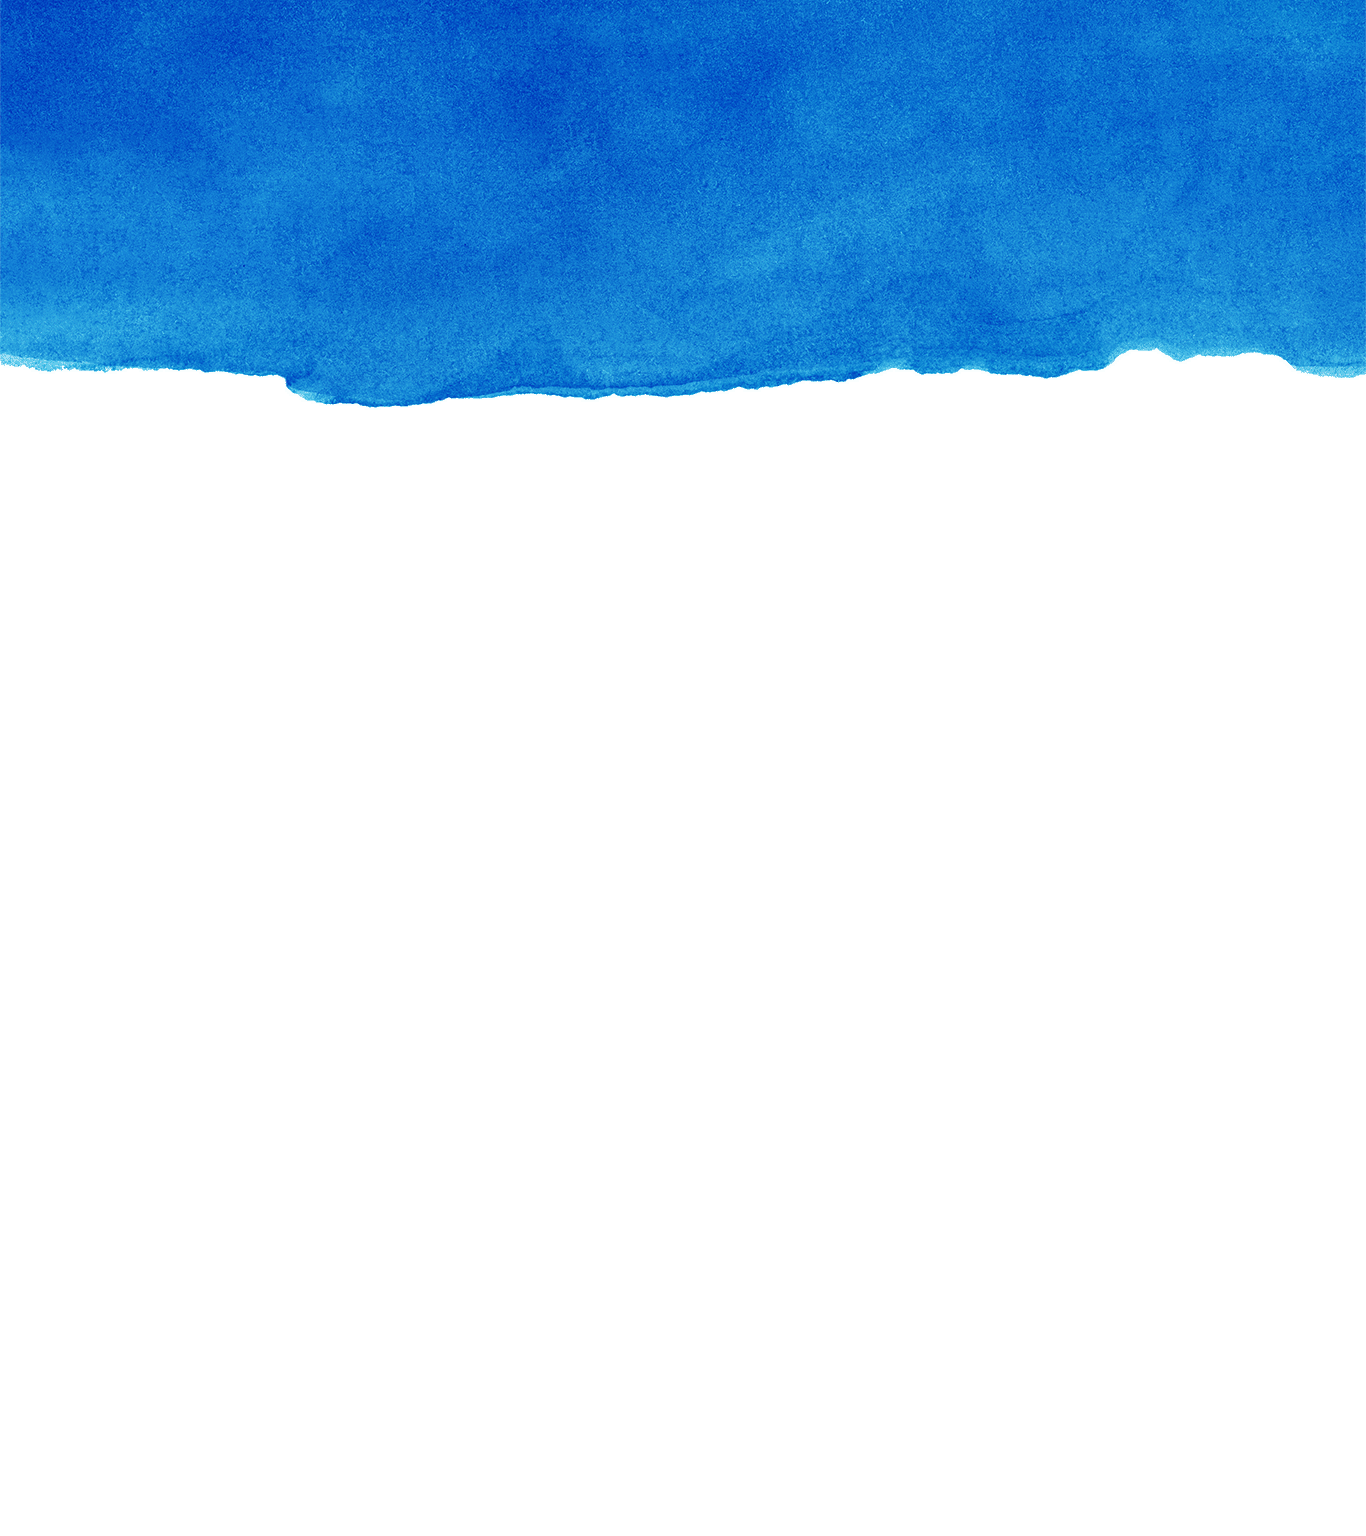
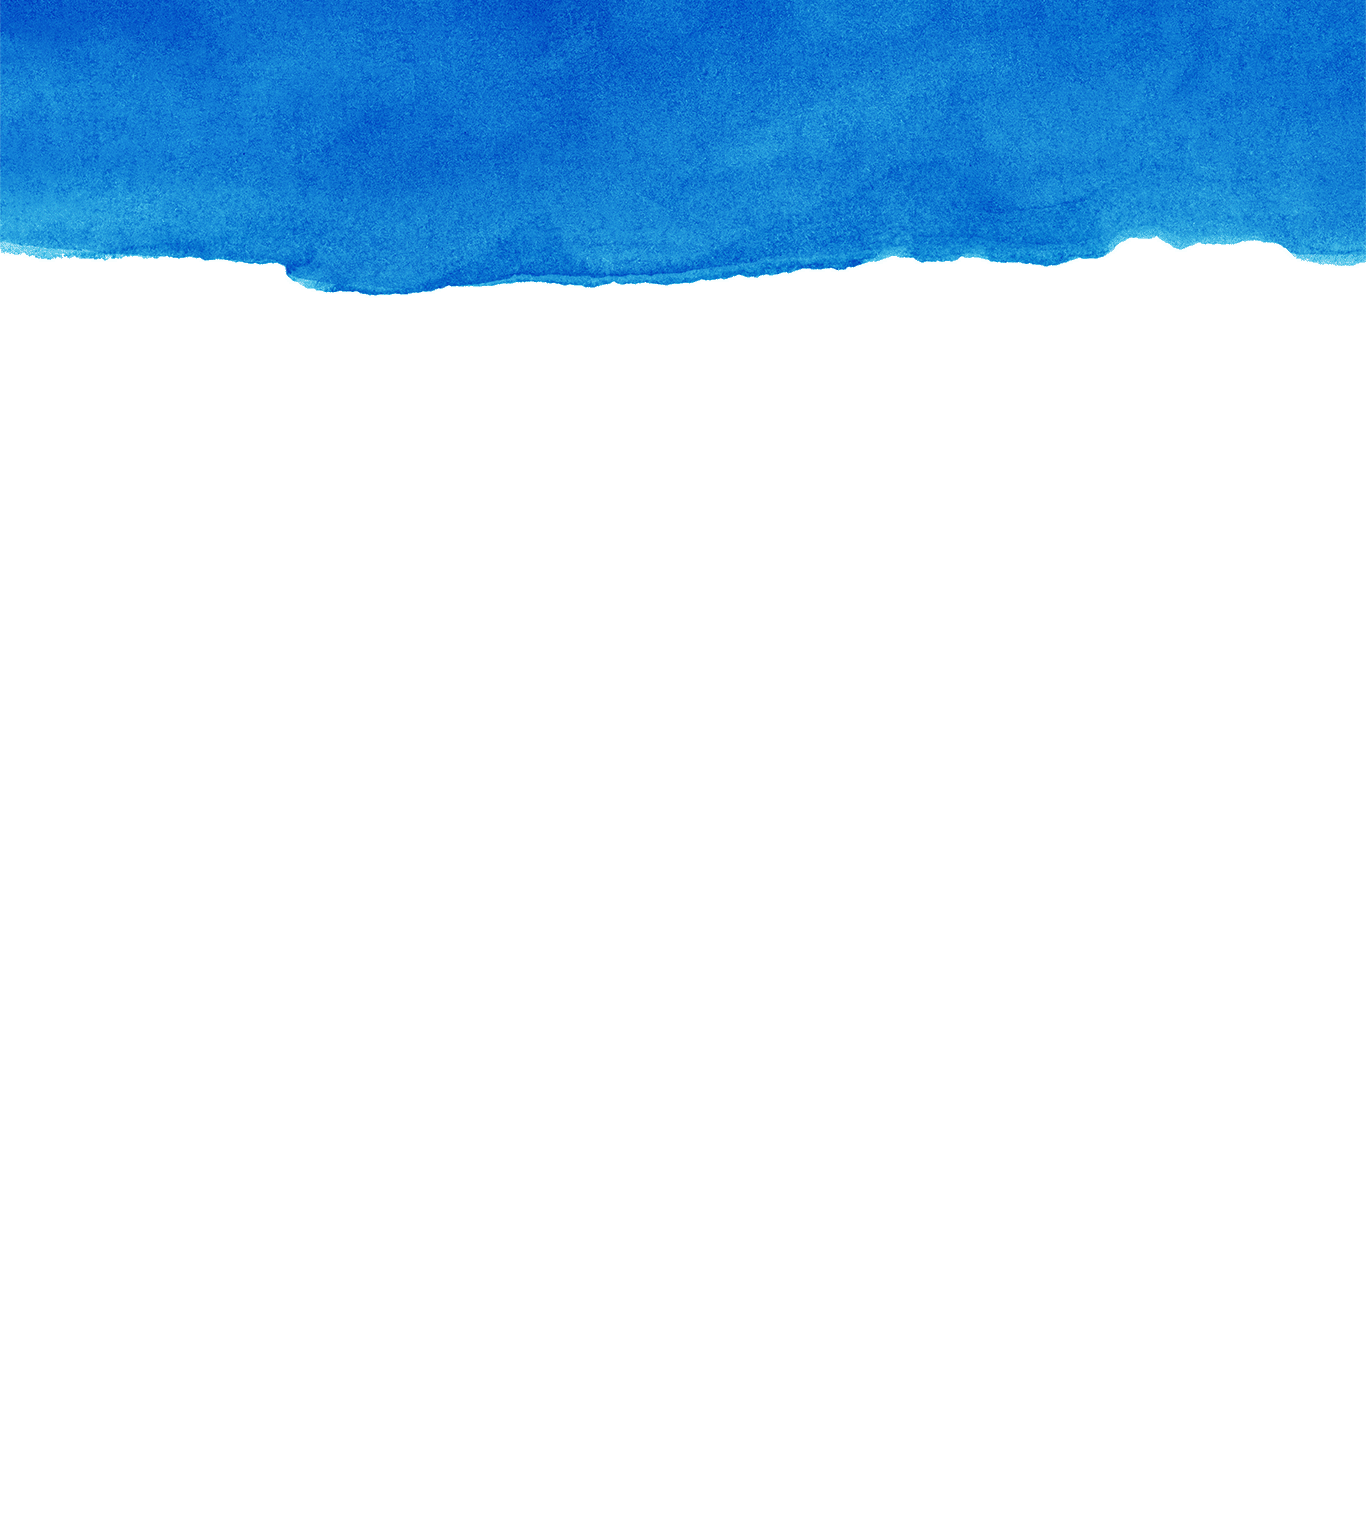
Styled text, formatted background images

Changed region(s): [[0.0, 0.0, 1.0, 0.2812]]

diff --git a/index.html b/index.html
@@ -14,7 +14,7 @@
     <script type="text/javascript" src="scripts/main-js.js"></script>
 	<meta charset="utf-8" />
 </head>
-<body>
+<body class="watercolour">
 	<a name="top"></a>
 
     <!-- #region Navbar -->
@@ -80,7 +80,7 @@
         </div>
         <div class="column">
             <div class="content">
-                <img src="images/masquerade_thumb.png" alt="Masquerade" class="thumbnail-main">
+                <a href="masquerade.html"><img src="images/masquerade_thumb.png" alt="Masquerade" class="thumbnail-main"></a>
             </div>
         </div>
         <div class="column">
@@ -111,55 +111,55 @@
 	        <div class="col-sm-4">
 		        <div class="row">
 			        <div class="col-sm-3"> <img class="icon-large" src="images/icons/illustration-icon.svg" alt="Illustration Icon"></div>
-			        <div class="col-sm-9 bold centre-services"><h3>ILLUSTRATION</h3></div>
+			        <div class="col-sm-9 bold centre-services"><h5>ILLUSTRATION</h5></div>
 		        </div>
 	        </div>
 	        <div class="col-sm-4">
 		        <div class="row">
 			        <div class="col-sm-3"> <img class="icon-large" src="images/icons/logo-design-icon.svg" alt="Logo Design Icon"></div>
-			        <div class="col-sm-9 bold centre-services"><h3>LOGO DESIGN</h3></div>
+			        <div class="col-sm-9 bold centre-services"><h5>LOGO DESIGN</h5></div>
 		        </div>
 	        </div>
 	        <div class="col-sm-4">
 		        <div class="row">
 			        <div class="col-sm-3"> <img class="icon-large" src="images/icons/brand-development-icon.svg" alt="Brand Development Icon"></div>
-			        <div class="col-sm-9 bold centre-services"><h3>BRAND DEVELOPMENT</h3></div>
+			        <div class="col-sm-9 bold centre-services"><h5>BRAND DEVELOPMENT</h5></div>
 		        </div>
 	        </div>
 			 <div class="col-sm-4">
 		        <div class="row">
 			        <div class="col-sm-3"> <img class="icon-large" src="images/icons/print-collateral-icon.svg" alt="Print Collateral Icon"></div>
-			        <div class="col-sm-9 bold centre-services"><h3>PRINT COLLATERAL</h3></div>
+			        <div class="col-sm-9 bold centre-services"><h5>PRINT COLLATERAL</h5></div>
 		        </div>
 	        </div>
 			 <div class="col-sm-4">
 		        <div class="row">
 			        <div class="col-sm-3"> <img class="icon-large" src="images/icons/infographic-design-icon.svg" alt="Infographic Design Icon"></div>
-			        <div class="col-sm-9 bold centre-services"><h3>INFOGRAPHIC DESIGN</h3></div>
+			        <div class="col-sm-9 bold centre-services"><h5>INFOGRAPHIC DESIGN</h5></div>
 		        </div>
 	        </div>
 			 <div class="col-sm-4">
 		        <div class="row">
 			        <div class="col-sm-3"> <img class="icon-large" src="images/icons/digital-media-icon.svg" alt="Digital Media Icon"></div>
-			        <div class="col-sm-9 bold centre-services"><h3>DIGITAL MEDIA</h3></div>
+			        <div class="col-sm-9 bold centre-services"><h5>DIGITAL MEDIA</h5></div>
 		        </div>
 	        </div>
 			 <div class="col-sm-4">
 		        <div class="row">
 			        <div class="col-sm-3"> <img class="icon-large" src="images/icons/character-design-icon.svg" alt="Character Design Icon"></div>
-			        <div class="col-sm-9 bold centre-services"><h3>CHARACTER DESIGN</h3></div>
+			        <div class="col-sm-9 bold centre-services"><h5>CHARACTER DESIGN</h5></div>
 		        </div>
 	        </div>
 			 <div class="col-sm-4">
 		        <div class="row">
 			        <div class="col-sm-3"> <img class="icon-large" src="images/icons/hand-lettering-icon.svg" alt="Hand Lettering Icon"></div>
-			        <div class="col-sm-9 bold centre-services"><h3>HAND LETTERING</h3></div>
+			        <div class="col-sm-9 bold centre-services"><h5>HAND LETTERING</h5></div>
 		        </div>
 	        </div>
 			 <div class="col-sm-4">
 		        <div class="row">
 			        <div class="col-sm-3"> <img class="icon-large" src="images/icons/video-storyboarding-icon.svg" alt="Video Storyboarding Icon"></div>
-			        <div class="col-sm-9 bold centre-services"><h3>VIDEO STORYBOARDING</h3></div>
+			        <div class="col-sm-9 bold centre-services"><h5>VIDEO STORYBOARDING</h5></div>
 		        </div>
 	        </div>
         </div>

diff --git a/css/main-css.css b/css/main-css.css
@@ -31,22 +31,29 @@ h1 {
     font-family: "Montserrat" !important;
 	color: #fff !important;
 	text-align: center !important;
+	font-size: 3em !important;
 }
 h2 {
     font-family: "Montserrat" !important;
 	color: #fff !important;
 	text-align: center !important;
-	font-size: 16px !important;
+	font-size: 1.2em !important;
 }
 h3 {
-    font-family: "Montserrat Bold" !important;
-	font-size: 16px !important;
+    font-family: "Montserrat" !important;
+	color: #000;
+	text-align: center !important;
+	font-size: 3em !important;
 }
 h4 {
-    font-family: "Montserrat" !important;
+     font-family: "Montserrat" !important;
+	color: #000 !important;
+	text-align: center !important;
+	font-size: 1.2em !important;
 }
 h5 {
-    font-family: "Montserrat" !important;
+    font-family: "Montserrat Bold" !important;
+	font-size: 1.2em !important;
 }
 
 a:link {
@@ -70,12 +77,6 @@ a:active {
 }
 
 body{
-    width: 100%;
-	background: url('../images/watercolour_header_large.png') no-repeat center center;
-    -webkit-background-size: cover;
-    -moz-background-size: cover;
-    -o-background-size: cover;
-    background-size: cover; 
 	background-color:#F1F1F1 !important;
 }
 
@@ -92,6 +93,19 @@ body{
 /**********************************************************************************************************
 *                                           CUSTOM CLASSES                                                *
 **********************************************************************************************************/
+
+.watercolour {
+	width: 100%;
+	background: url('../images/watercolour_header_large.png') no-repeat center center;
+    -webkit-background-size: cover;
+    -moz-background-size: cover;
+    -o-background-size: cover;
+    background-size: cover; 
+}
+
+.header {
+	margin-top: -5%;
+}
 
 .bold {
     font-family: "Montserrat Bold"!important;
@@ -125,7 +139,7 @@ body{
 }
 
 .row {
-    margin: 8px -16px;
+    
 }
 
 /* Add padding BETWEEN each column */
@@ -154,7 +168,10 @@ body{
 
 /* Custom css for main content */
 .content-main {
-    padding: 10%;
+    padding-left: 10%;
+	padding-right: 10%;
+	padding-top: 5%;
+	padding-bottom: 5%;
 }
 .centre-services {
 	padding-top: 6%;
@@ -211,8 +228,14 @@ body{
     }
 }
 
-@media (max-width: 1035px) {
-	body {
+@media (max-width: 1360px) {
+	.watercolour {
 		background: url('../images/watercolour_header_medium.png') no-repeat center center;
+	}
+}
+
+@media (max-width: 640px) {
+	.watercolour {
+		background: url('../images/watercolour_header_small.png') no-repeat center center;
 	}
 }

diff --git a/masquerade.html b/masquerade.html
@@ -45,15 +45,15 @@
     <!-- #endRegion Navbar -->
 
     <!-- #region Header -->
-		<img src="images/masquerade_header.png" align="center" width="100%" alt="Masquerade Header">
+		<img class="header" src="images/masquerade_header.png" align="center" width="100%" alt="Masquerade Header">
 
    <!-- #endRegion Header-->
 
 	<!-- Main content starts here -->
     
     <div class="row content-main">
-		<h1>Once Upon a Masquerade</h1>
-        <h2>LOGO DESIGN  |  PRINT COLLATERAL  |  DIGITAL MEDIA</h2>
+		<h3>Once Upon a Masquerade</h3>
+        <h4>LOGO DESIGN  |  PRINT COLLATERAL  |  DIGITAL MEDIA</h4>
 	
 	<!-- Portfolio Gallery Grid -->
 	
